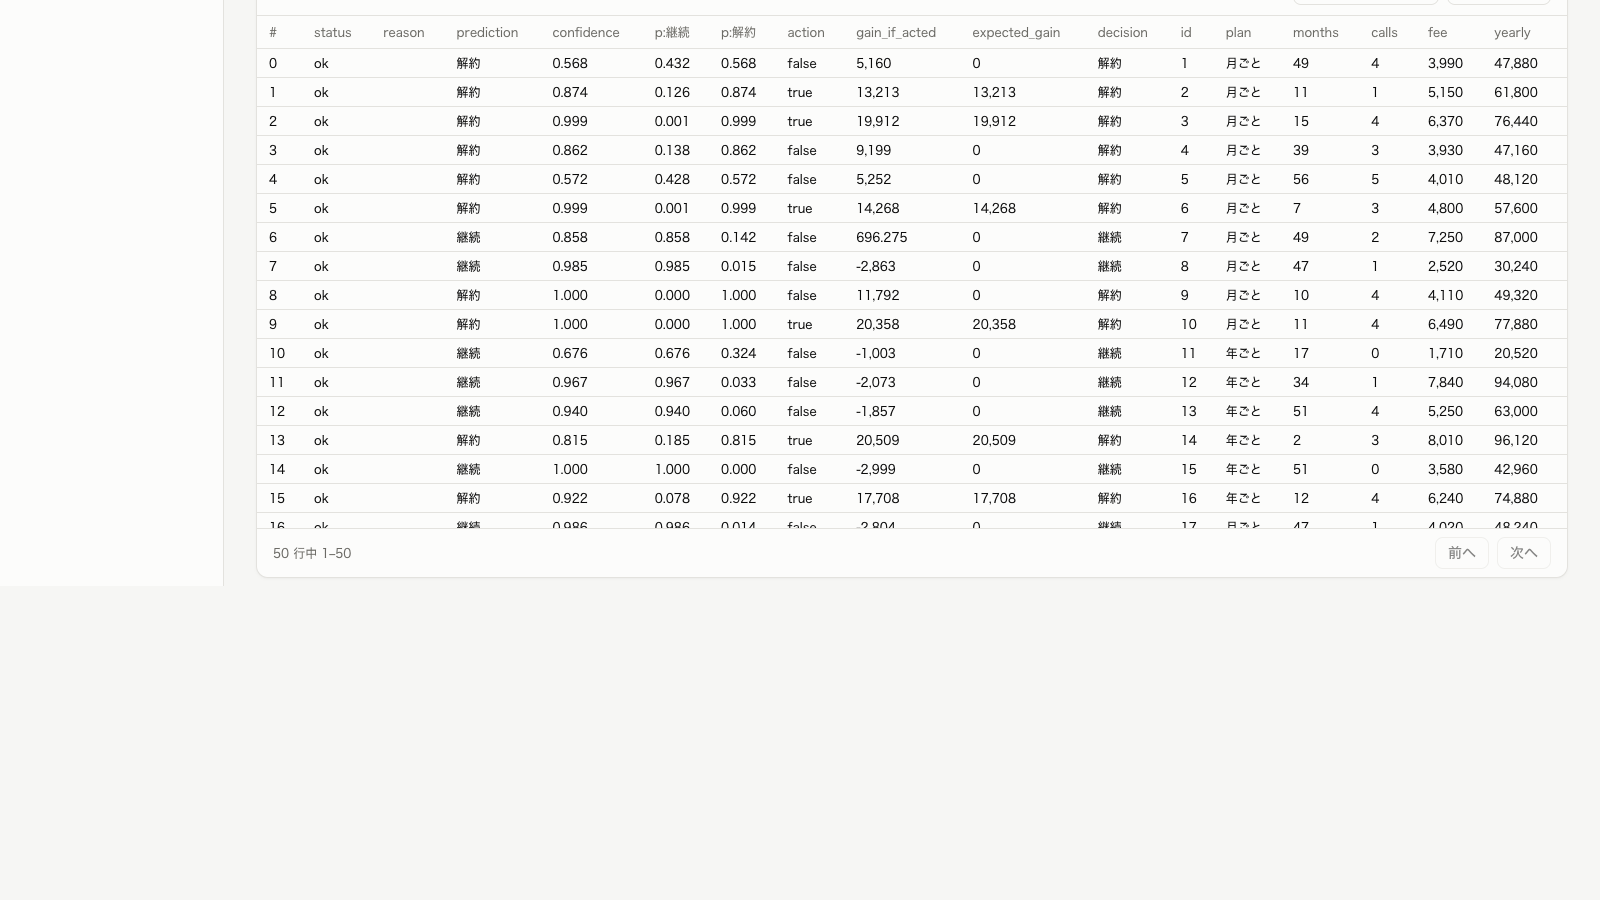
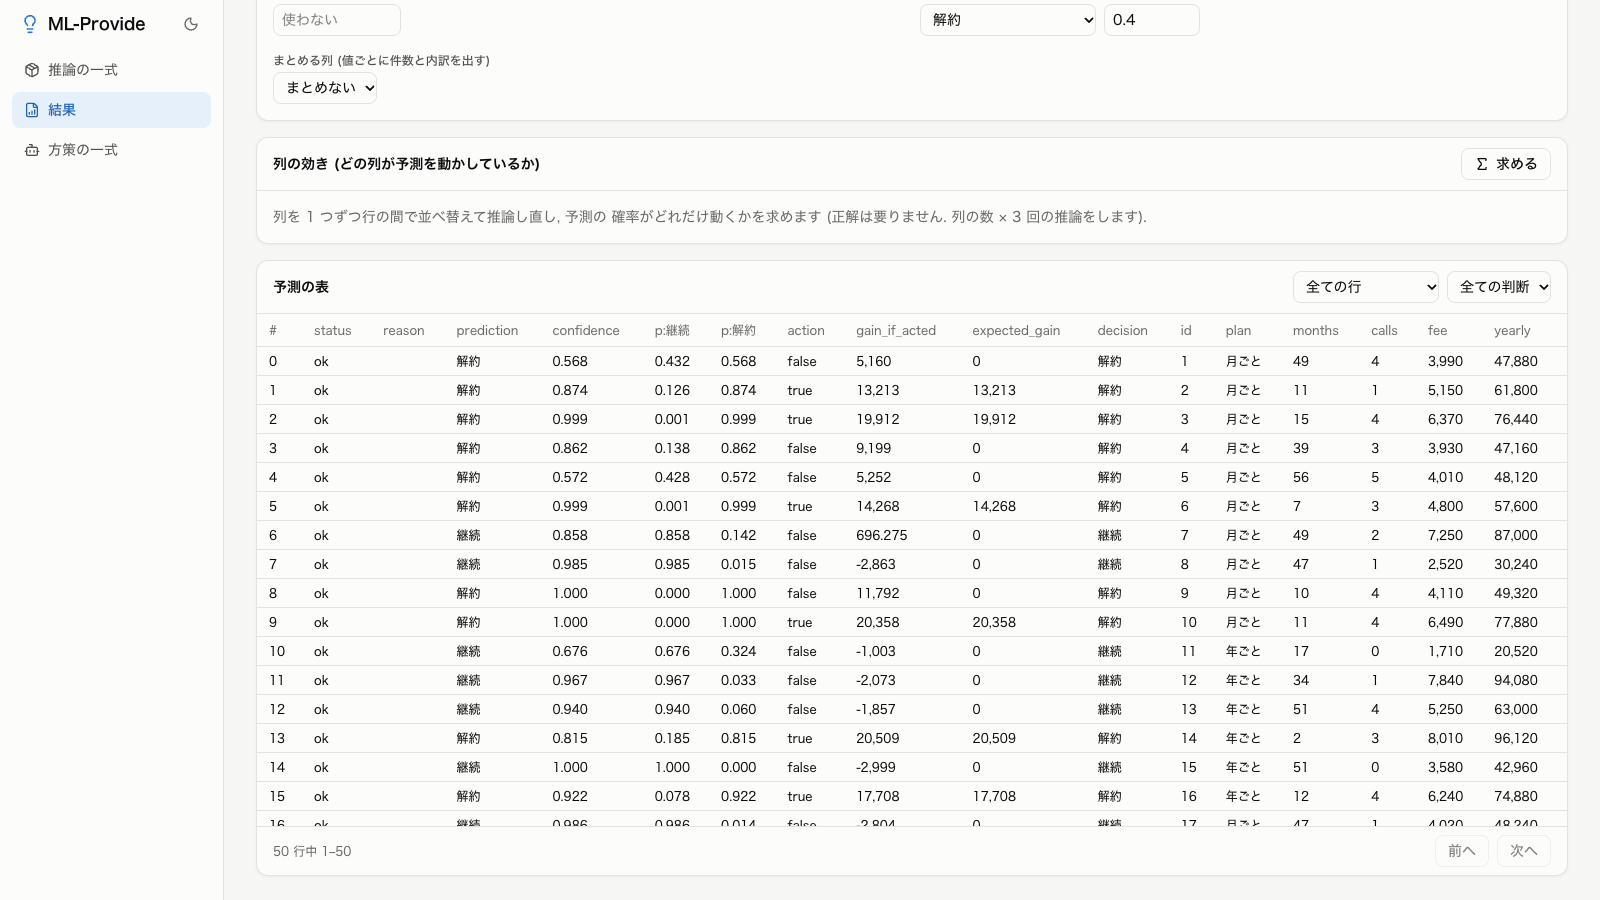
方策の見本を別の問題の設定にし, 画面の例の送りと操作ガイドの方策の章を直す

diff --git a/frontend/e2e/provide.spec.ts b/frontend/e2e/provide.spec.ts
@@ -667,7 +667,7 @@ test('骨組みの学習が実験の中に書き出した方策の一式を, 実
   const run = path.resolve(
     import.meta.dirname,
     '.work',
-    'project',
+    'policy-project',
     'outputs',
     'cartpole',
     '2026-01-04',
@@ -682,12 +682,12 @@ test('骨組みの学習が実験の中に書き出した方策の一式を, 実
   // 推論の一式の実験は並べない
   await expect(table).not.toContainText('sales/2026-01-02/09-00-00')
   await dialog
-    .getByRole('button', { name: '総菜の作る量 (cartpole/2026-01-04/09-00-00) を登録' })
+    .getByRole('button', { name: '棒を立てる制御 (cartpole/2026-01-04/09-00-00) を登録' })
     .click()
 
   // 方策の画面に移り, 一式に写した定義から組み立てた方策で行動を決める
   await expect(
-    page.getByRole('heading', { name: '総菜の作る量 (cartpole/2026-01-04/09-00-00)' }),
+    page.getByRole('heading', { name: '棒を立てる制御 (cartpole/2026-01-04/09-00-00)' }),
   ).toBeVisible({ timeout: 30_000 })
   await page
     .getByLabel(/^観測/)

diff --git a/frontend/e2e/screens.ts b/frontend/e2e/screens.ts
@@ -34,9 +34,11 @@ function hideHome(prefix: string) {
 
 /** 要素を本文の上の端に寄せる */
 async function scrollTo(target: Locator) {
+  // 本文の欄だけを送る (scrollIntoView はページ全体も送り, 下に空白が出る)
   await target.evaluate((element) => {
-    element.scrollIntoView({ block: 'start' })
-    document.querySelector('main')?.scrollBy(0, -16)
+    const main = document.querySelector('main')!
+    const top = element.getBoundingClientRect().top - main.getBoundingClientRect().top
+    main.scrollBy(0, top - 16)
   })
 }
 
@@ -107,7 +109,7 @@ await page.getByLabel(/確信の下限/).fill('0.8')
 await page.getByRole('button', { name: '出し直す' }).click()
 await expect(page.getByRole('list', { name: '判断の内訳' })).toContainText('保留')
 await page.getByLabel('判断で絞る').selectOption('保留')
-await page.evaluate(() => document.querySelector('main')?.scrollTo(0, 0))
+await scrollTo(page.getByRole('heading', { name: '予測の表' }))
 await shot(page, 'reconclude')
 
 // 過去のデータ 300 行でたどり直す
